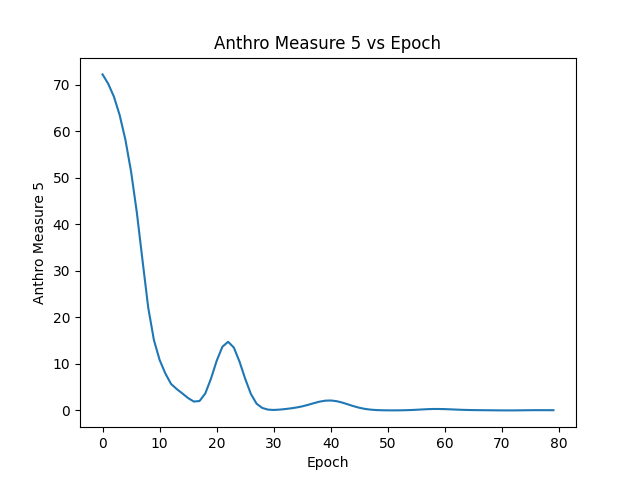
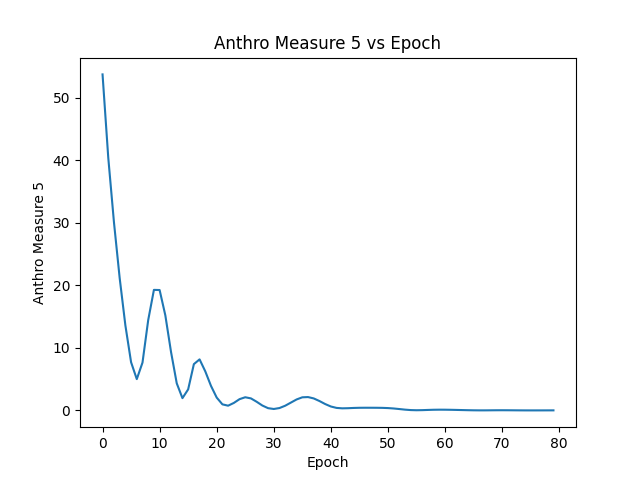
added normalize funnction

diff --git a/src/train_and_validate.py b/src/train_and_validate.py
@@ -15,7 +15,8 @@ class ModelTrainer:
         hrir_pos = np.hstack((hrir, pos))
         anthro = InputProcessing.extractAnthro(3, True)
         anthro = np.tile(anthro, (1250,1))
-        hrir_pos_train,  hrir_pos_test, anthro_train, anthro_test = train_test_split(hrir_pos, anthro, test_size=0.2, random_state=41)
+        hrir_pos_train,  hrir_pos_test, anthro_train, anthro_test = train_test_split(hrir_pos, anthro, test_size=0.1, random_state=41)
+        hrir_pos_train, hrir_pos_val, anthro_train, anthro_val = train_test_split(hrir_pos_train, anthro_train, test_size=0.23, random_state=41)
 
         # get mean and standard deviation
         self.anthro_mean = np.mean(anthro)
@@ -24,20 +25,23 @@ class ModelTrainer:
         self.hrirPos_std = np.std(hrir_pos)
 
         # normalize inputs
-        hrir_pos_train = torch.FloatTensor(hrir_pos_train)
-        self.X_train = (hrir_pos_train - self.hrirPos_mean) / (self.hrirPos_std)
-        hrir_pos_test = torch.FloatTensor(hrir_pos_test)
-        self.X_test  = (hrir_pos_test - self.hrirPos_mean) / (self.hrirPos_std)
-        anthro_train = torch.FloatTensor(anthro_train)
-        self.anthro_train = (anthro_train - self.anthro_mean) / (self.anthro_std)
-        anthro_test = torch.FloatTensor(anthro_test)
-        self.anthro_test = (anthro_test - self.anthro_mean) / (self.anthro_std)
-
+        self.X_train  = self.normalize(hrir_pos_train, self.hrirPos_mean, self.hrirPos_std)
+        self.X_val  = self.normalize(hrir_pos_val, self.hrirPos_mean, self.hrirPos_std) 
+        self.X_test  = self.normalize(hrir_pos_test, self.hrirPos_mean, self.hrirPos_std)
+        self.Y_train = self.normalize(anthro_train, self.anthro_mean, self.anthro_std)
+        self.Y_val = self.normalize(anthro_val, self.anthro_mean, self.anthro_std)
+        self.Y_test = self.normalize(anthro_test, self.anthro_mean, self.anthro_std)
+        
+    def normalize(self, data, mean, std):
+        tensor = torch.FloatTensor(data)
+        normal = (tensor - mean) / std
+        return normal
+    
     # Method to train the model
     def trainModel(self, model):
         # Get training data
         X_train = self.X_train
-        anthro_train = self.anthro_train
+        anthro_train = self.Y_train
         # Set loss function
         criterion = nn.MSELoss()
         #Choose Adam Optimizer, learning rate
@@ -45,7 +49,6 @@ class ModelTrainer:
         #Set iterations
         epochs = 80
         losses = []
-        indivLosses = []
 
         mse_individual = [[0 for a in range(epochs)] for b in range(10)]
         for i in range(epochs):
@@ -54,10 +57,6 @@ class ModelTrainer:
 
             #calculate loss
             lossAnthro = criterion(anthro_pred, anthro_train)
-
-            #calculate individual losses
-            mse = nn.functional.mse_loss(anthro_pred, anthro_train, reduction='none')
-            indivLosses.append(mse.detach().numpy())
 
             #Keep track of losses
             losses.append(lossAnthro.detach().numpy())
@@ -77,16 +76,6 @@ class ModelTrainer:
             lossAnthro.backward()
             optimizer.step()
 
-        # Plot losses
-        '''
-        trainLoss = plt.figure()
-        plt.plot(range(epochs // 10), losses)
-        plt.ylabel("Loss")
-        plt.xlabel("Epoch")
-        plt.title("Training Loss")
-        trainLoss.savefig('../figures/error.png')
-        '''
-
         # Plot mse
         for i in range(10):
             anthroMSE = plt.figure()
@@ -100,35 +89,27 @@ class ModelTrainer:
             figlabel = "../figures/" + str(i) + ".png"
             anthroMSE.savefig(figlabel)
     
-    def basicValidation(self, model):
+    def testModel(self, model):
         # Get data
         X_test = self.X_test
-        anthro_test = self.anthro_test
-        anthro_error = []
+        anthro_test = self.Y_test
         criterion = nn.MSELoss()
         with torch.no_grad():
             anthro_eval = model.forward(X_test) # X-test are features from test se, y_eval s predictions
             lossAnthro = criterion(anthro_eval, anthro_test) 
             totalLoss = lossAnthro #find loss or error
+            mse = [0]* 10
+            print(totalLoss)
             
-            
+            # Calculate mean squared error
             for i, data in enumerate(X_test):
-                # find the difference from expected values
+                # find the percentage error in all anthropometric data outputs
                 y_anthro = model.forward(data)
-                error = torch.abs(anthro_test[i] - y_anthro)
-                error_list = error.tolist()
-                anthro_error.append(error_list)
-
-        transposed_data = list(zip(*anthro_error))
-
-        averages = [sum(column) / len(column) for column in transposed_data]
-
-        # plot difference across each anthro measurement
-        anthroErrorPlot = plt.figure()
-        plt.plot(range(len(averages)), averages)
-        plt.ylabel("Difference")
-        plt.xlabel("Anthro Measurement Point")
-        plt.title("Difference Across Actual and Calculated Anthro Measurements")
-        anthroErrorPlot.savefig('../figures/validation.png')
-        return totalLoss
+                one_anthro = anthro_test[i]
+                for j in range(10):
+                    mse[j] += (one_anthro[j] - y_anthro[j])**2
+            for i in range(10):
+                mse[j] *= (1/10)
+            # plot the mse for each anthropometric data point
+        return mse
     

diff --git a/src/main.py b/src/main.py
@@ -17,9 +17,6 @@ class Main:
 
         self.trainer.trainModel(self.model)
 
-        mape = self.trainer.basicValidation(self.model)
-
-        print(mape)
 
     # This method will make a prediction given a subject
     def predictAnthro(self, subject):
